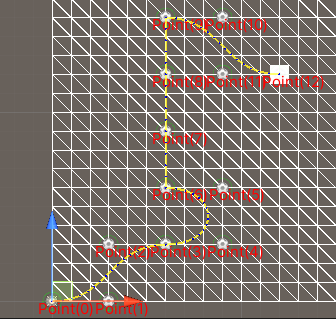
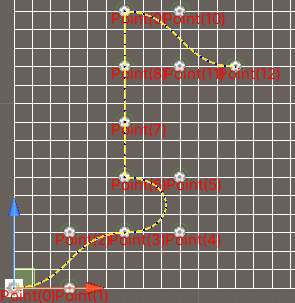
Fix： 1. 优化网格绘制方式(从Gizmos.DrawWireMesh改成Gizmos.DrawLine)，避免OpenGL或DX模式下Gizmos.DrawWireMesh绘制有差异问题

diff --git a/PathPointTool/Assets/Scripts/Core/Tile/TileVisualization.cs b/PathPointTool/Assets/Scripts/Core/Tile/TileVisualization.cs
@@ -4,6 +4,7 @@
  * Create Date:             2023/04/09
  */
 
+using System;
 using System.Collections;
 using System.Collections.Generic;
 using UnityEngine;
@@ -47,7 +48,7 @@ public partial class TileVisualization : MonoBehaviour
 #if UNITY_EDITOR
         mTileMesh = new Mesh();
         mTileMesh.indexFormat = UnityEngine.Rendering.IndexFormat.UInt32;
-        UpdateTileMeshData();
+        UpdateTileDatas();
 #endif
     }
 
@@ -63,17 +64,64 @@ public partial class TileVisualization : MonoBehaviour
     private int mSingleRowVertexNum;
 
     /// <summary>
+    /// 横绘制线条数据列表<起点, 终点>列表
+    /// </summary>
+    private List<KeyValuePair<Vector3, Vector3>> mHorizontalDrawLinesDataList = new List<KeyValuePair<Vector3, Vector3>>();
+
+    /// <summary>
+    /// 竖绘制线条数据列表<起点, 终点>列表
+    /// </summary>
+    private List<KeyValuePair<Vector3, Vector3>> mVerticalDrawLinesDataList = new List<KeyValuePair<Vector3, Vector3>>();
+
+    /// <summary>
     /// 更新Tile数据
     /// </summary>
     public void UpdateTileDatas()
     {
-        UpdateTileMeshData();
+        UpdateTileLineDatas();
+        //UpdateTileMeshData();
+    }
+
+    /// <summary>
+    /// 更新Tile绘制线条数据
+    /// </summary>
+    private void UpdateTileLineDatas()
+    {
+        Debug.Log("更新Tile线条数据！");
+        mHorizontalDrawLinesDataList.Clear();
+        mVerticalDrawLinesDataList.Clear();
+        var horizontalLineNum = 0;
+        var verticalLineNum = 0;
+        if (TileRow != 0 && TileColumn != 0)
+        {
+            horizontalLineNum = TileRow + 1;
+            verticalLineNum = TileColumn + 1;
+        }
+        var totalHorizontalLength = TileColumn * TileLength;
+        var totalVerticalLength = TileRow * TileLength;
+        var startPos = TileStartPos;
+        for(int i = 0; i < horizontalLineNum; i++)
+        {
+            var fromPos = TileStartPos;
+            fromPos.z = fromPos.z + i * TileLength;
+            var toPos = fromPos;
+            toPos.x = toPos.x + totalHorizontalLength;
+            mHorizontalDrawLinesDataList.Add(new KeyValuePair<Vector3, Vector3>(fromPos, toPos));
+        }
+        for (int j = 0; j < verticalLineNum; j++)
+        {
+            var fromPos = TileStartPos;
+            fromPos.x = fromPos.x + j * TileLength;
+            var toPos = fromPos;
+            toPos.z = toPos.z + totalVerticalLength;
+            mVerticalDrawLinesDataList.Add(new KeyValuePair<Vector3, Vector3>(fromPos, toPos));
+        }
     }
 
     /// <summary>
     /// 更新Tile网格数据
     /// </summary>
-    private void UpdateTileMeshData()
+    private void UpdateTileMeshDatas()
     {
         Debug.Log("更新Tile网格数据！");
         mTileMesh.Clear();
@@ -153,6 +201,30 @@ public partial class TileVisualization : MonoBehaviour
     }
 
     private void OnDrawGizmos()
+    {
+        DrawLines();
+        //DrawWireMesh();
+    }
+
+    /// <summary>
+    /// 绘制线条
+    /// </summary>
+    private void DrawLines()
+    {
+        foreach(var horizontalLineData in mHorizontalDrawLinesDataList)
+        {
+            Gizmos.DrawLine(horizontalLineData.Key, horizontalLineData.Value);
+        }
+        foreach (var verticalLineData in mVerticalDrawLinesDataList)
+        {
+            Gizmos.DrawLine(verticalLineData.Key, verticalLineData.Value);
+        }
+    }
+
+    /// <summary>
+    /// 绘制网格Mesh
+    /// </summary>
+    private void DrawWireMesh()
     {
         Gizmos.DrawWireMesh(mTileMesh, TileStartPos);
     }
